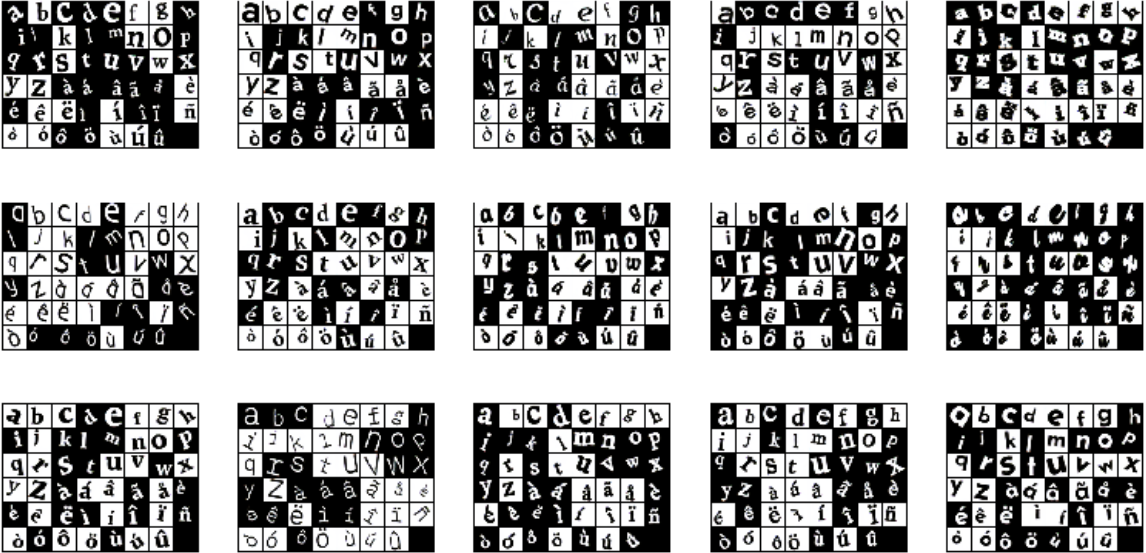
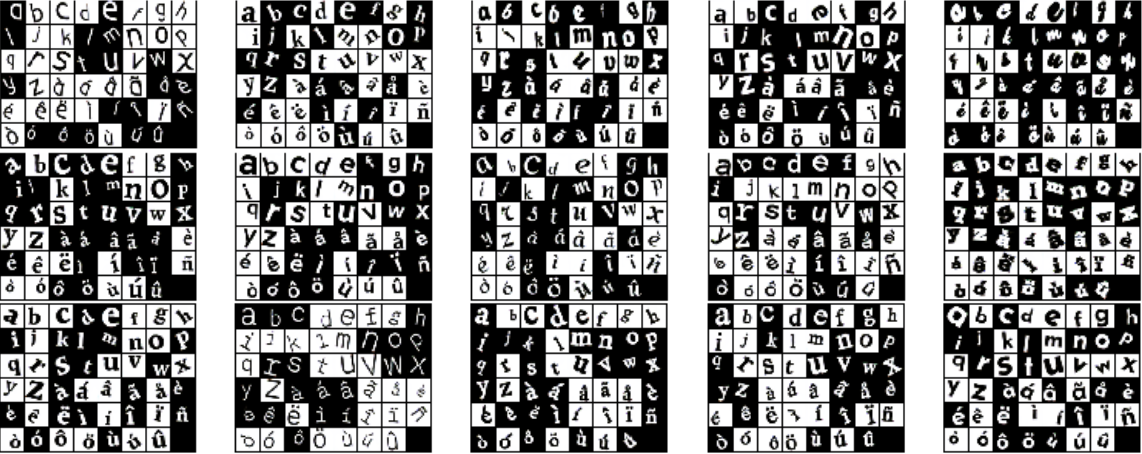
updated README

diff --git a/README.md b/README.md
@@ -1,13 +1,4 @@
-<table>
-  <tr>
-    <td>
-      <img src="images/cover.svg" alt="framework" width="50%" />
-    </td>
-    <td>
-      <img src="images/samples.png" alt="samples" width="50%" />
-    </td>
-  </tr>
-</table>
+<img src="images/cover.pdf" alt="framework"/>
 
 # A Benchmark For Counterfactual Explainers
 
@@ -22,9 +13,13 @@ Code repository for the Bex explainability benchmark. Models and datasets that c
 automatically downloaded when the benchmark is ran.
 
 
+The dataset used for the benchmark is a modified version of [Synbols](https://arxiv.org/abs/2009.06415) that contains black and white characters with various attributest that define them (e.g., font, rotaion, scale, etc)
+
+<img src="images/samples.png" alt="samples"/>
+
 ## Installation
 
-The recommended way to install Bex is via [PyPI](https://pypi.org/project/bex/).
+The recommended way to install Bex is via [PyPI](https://pypi.org/project/bex/)
 
 ```bash
 pip install bex
@@ -33,7 +28,7 @@ pip install bex
 
 ## Usage
 
-The documentation for the benchmark can be found [here](dvd42.github.io/Bex)
+For more information about the usage check out the [Documentation](https://dvd42.github.io/Bex)
 We provide a set of counterfactuals explainers already implemented in the benchmark:
 
 1. [Beyond Trivial Counterfactual Explanations with Diverse Valuable Explanations](https://arxiv.org/abs/2103.10226) (DiVE)
